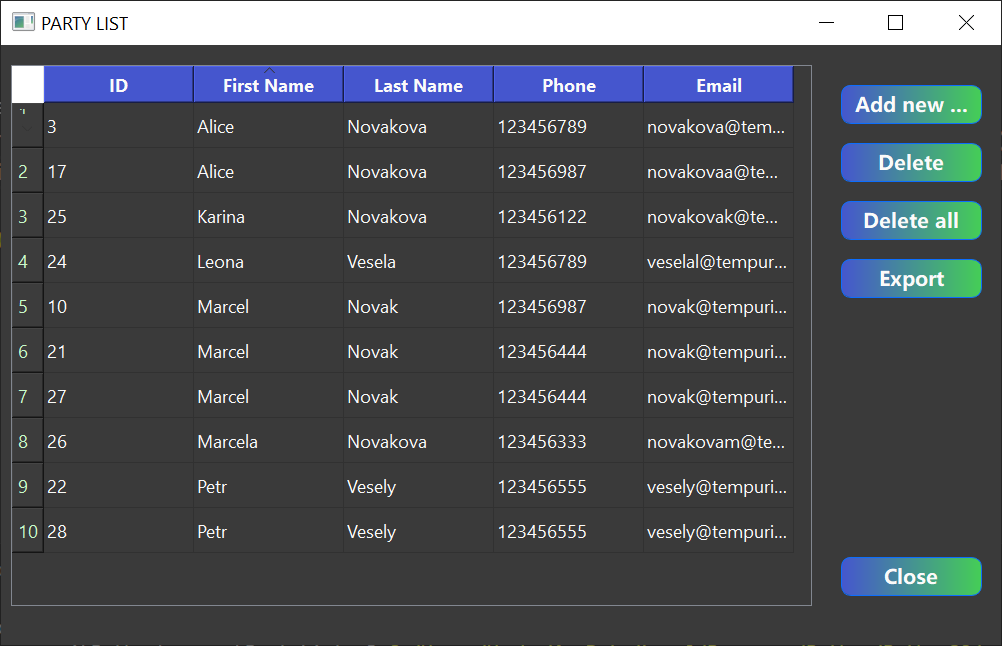
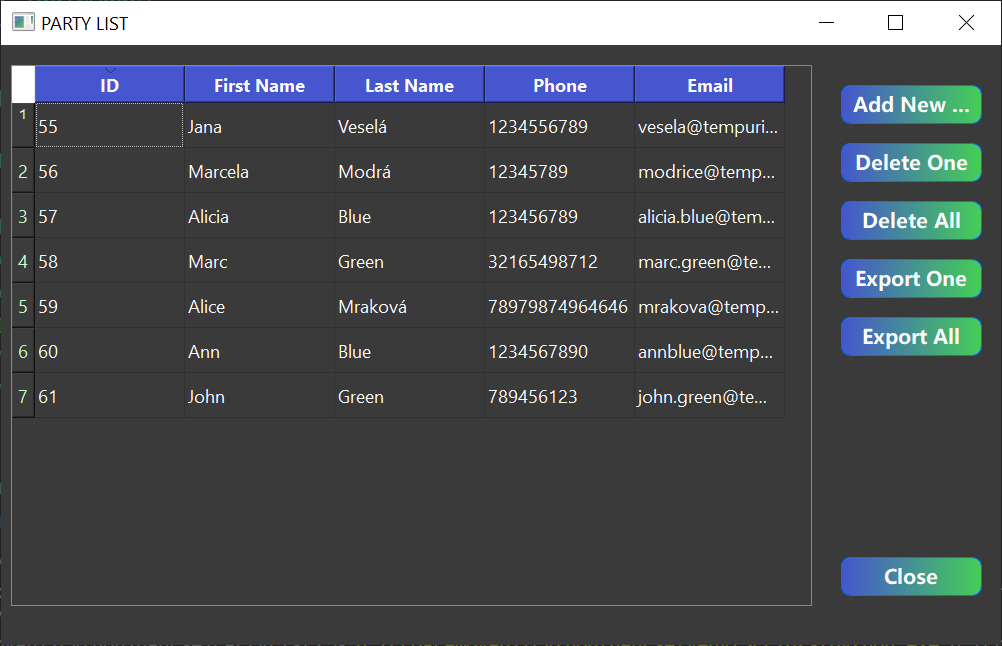
Export Excel - all people and one person buttons + functions

diff --git a/TableModel.py b/TableModel.py
@@ -1,15 +1,33 @@
-"""This module provides a model to manage the contacts table."""  
+"""This module provides a model to manage the contacts table in a Qt application.
+
+It uses PyQt's QSqlTableModel to interact with the database and provides methods
+for CRUD (Create, Read, Update, Delete) operations on the contacts data.
+"""
   
 from PyQt5.QtCore import Qt  
 from PyQt5.QtSql import QSqlTableModel  
   
 class PersonModel:  
-    def __init__(self):  
+    def __init__(self):
+        """
+        Initializes the model by creating a QSqlTableModel instance
+        and setting it up to manage the "person" table.
+        """
         self.model = self._createModel()  
- 
+
     @staticmethod  
     def _createModel():  
-        """Create and set up the model."""  
+        """
+        Creates and configures a QSqlTableModel instance for the "person" table.
+
+        - Sets the table name to "person".
+        - Sets the edit strategy to OnFieldChange for immediate updates.
+        - Executes a select query to retrieve initial data.
+        - Sets the column headers using a provided list.
+
+        Returns:
+            The configured QSqlTableModel instance.
+        """  
         tableModel = QSqlTableModel()  
         tableModel.setTable("person")  
         tableModel.setEditStrategy(QSqlTableModel.OnFieldChange)  
@@ -18,17 +36,31 @@ class PersonModel:
         for columnIndex, header in enumerate(headers):  
             tableModel.setHeaderData(columnIndex, Qt.Horizontal, header)  
         return tableModel
-    
 
-    def deletePerson(self, row):  
-        """Remove a person from the database."""  
+    def deletePerson(self, row):
+        """
+        Removes a person from the database at the specified row index.
+
+        - Removes the row from the QSqlTableModel.
+        - Submits all changes to the database.
+        - Refreshes the model data by executing a select query.
+
+        Args:
+            row (int): The index of the row to be deleted.
+        """
         self.model.removeRow(row)  
         self.model.submitAll()  
         self.model.select()
 
-    
     def deletePeople(self):  
-        """Remove all people from the database."""  
+        """
+        Removes all people from the database.
+
+        - Iterates through all rows in reverse order (to avoid index issues).
+        - Removes each row from the QSqlTableModel.
+        - Submits all changes to the database.
+        - Refreshes the model data by executing a select query.
+        """  
         raw = self.model.rowCount()
         while (raw >= 0):
             self.model.removeRow(raw)
@@ -36,9 +68,20 @@ class PersonModel:
         self.model.submitAll()  
         self.model.select()
 
-
     def addPerson(self, data):  
-        """Add one person to the database."""  
+        """
+        Adds a new person to the database.
+
+        - Gets the current number of rows (for insertion position).
+        - Inserts a new row at the end of the table.
+        - Iterates through the provided data list and sets the values
+          in the corresponding columns of the new row.
+        - Submits all changes to the database.
+        - Refreshes the model data by executing a select query.
+
+        Args:
+            data (list): A list containing the person's data for each column.
+        """
         rows = self.model.rowCount()  
         self.model.insertRows(rows, 1)  
         for column, field in enumerate(data):  
@@ -48,8 +91,18 @@ class PersonModel:
     
 
     def get_all_people(self):
-        """Retrieves all people and returns them as a list of dictionaries."""
+        """
+        Retrieves all people data from the database and returns them as a list of dictionaries.
 
+        - Checks if the select query was successful.
+        - Gets the number of columns for iteration.
+        - Iterates through all rows and creates a dictionary for each person's data.
+        - Uses column headers as dictionary keys (assuming consistent data structure).
+        - Appends each person's data dictionary to a list and returns it.
+
+        Returns:
+            list: A list containing dictionaries representing all people data.
+        """
         all_people = []
         if self.model.select():
             # Get column count (assuming consistent data structure)
@@ -68,10 +121,23 @@ class PersonModel:
                 all_people.append(person_data)
 
         return all_people
-
-
-
-
-        
-
     
+
+    def get_current_row(self, row):
+        """Retrieves the data from the currently selected row as a dictionary.
+
+        Returns:
+            A dictionary containing the data from the selected row, or None if no row is selected.
+        """
+        column_count = self.model.columnCount()
+
+        person_data = {}
+        for col in range(column_count):
+            # Access data using index and Qt.DisplayRole
+            value = self.model.data(self.model.index(row, col), Qt.DisplayRole)
+            # Use column headers as dictionary keys (assuming they exist)
+            headers = ("ID", "First Name", "Last Name", "Phone", "Email")
+            if col < len(headers):
+                person_data[headers[col]] = value
+
+        return person_data

diff --git a/PartyListMain.py b/PartyListMain.py
@@ -49,6 +49,7 @@ class PartyWindow(QMainWindow):
         self.button_delete.clicked.connect(lambda: self.deletePerson())
         self.button_delete_all.clicked.connect(lambda: self.deletePeople())
         self.button_close.clicked.connect(app.closeAllWindows)
+        self.button_export_one.clicked.connect(self.export_selected_row)
         self.button_export_all.clicked.connect(self.export_to_excel)  
 
 
@@ -108,6 +109,42 @@ class PartyWindow(QMainWindow):
             wb.save(filename)
             messageBox = QMessageBox.information(self, "Success", "<FONT COLOR='white'>Party list exported to Excel successfully!") 
 
+    def export_selected_row(self):
+        """Exports the data from the currently selected row to an Excel file.
+
+        Returns:
+            None
+        """
+        row = self.table_party_list.currentIndex().row()  
+        if row < 0:  
+            return 
+
+        selected_data = self.personModel.get_current_row(row)  # Get data from selected row
+
+        if not selected_data:
+            QMessageBox.information(self, "Information", "No row selected to export!")
+            return
+
+        # Create a new workbook
+        wb = openpyxl.Workbook()
+        sheet = wb.active
+        sheet.title = "Party List"
+
+        # Write headers (assuming consistent data structure)
+        headers = list(selected_data.keys())
+        for col_index, header in enumerate(headers, start=1):
+            sheet.cell(row=1, column=col_index).value = header
+
+        # Write data
+        row_index = 2  # Start data on row 2
+        for col_index, value in enumerate(selected_data.values(), start=1):
+            sheet.cell(row=row_index, column=col_index).value = value
+
+        # Save the workbook
+        filename, _ = QtWidgets.QFileDialog.getSaveFileName(self, "Export Selected Row", "", "Excel Files (*.xlsx)")
+        if filename:
+            wb.save(filename)
+            messageBox = QMessageBox.information(self, "Success", "<FONT COLOR='white'>Selected row exported to Excel successfully!</FONT>")
 
 # second dialog for informatin display
 class AddPersonDialog(QDialog):
